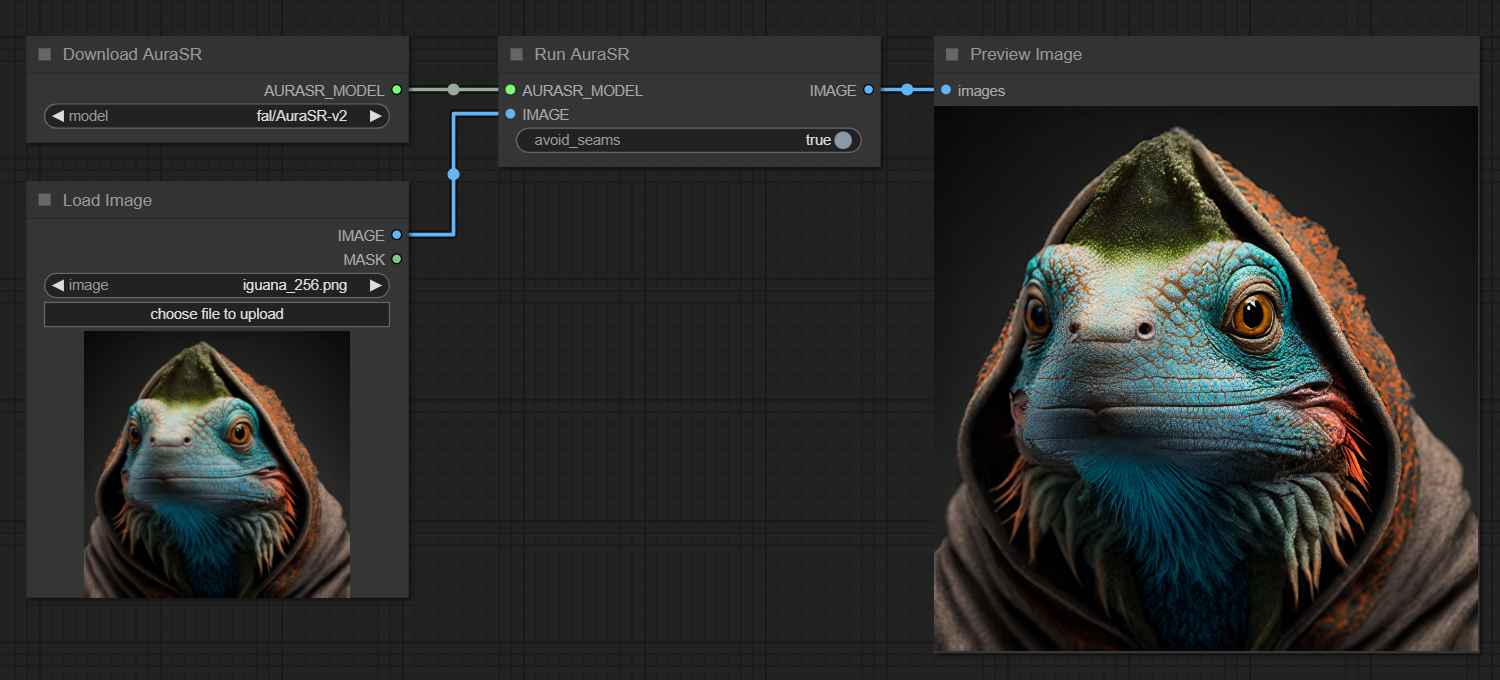
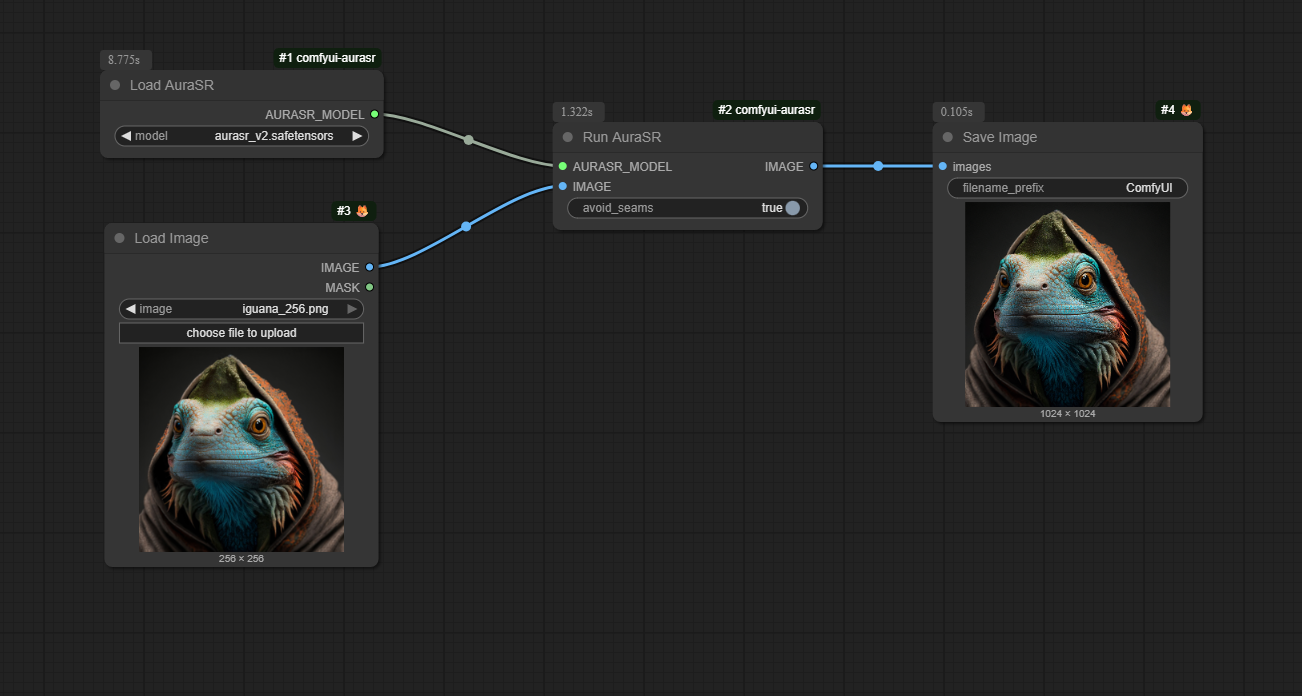
Update node label

diff --git a/__init__.py b/__init__.py
@@ -9,6 +9,6 @@ NODE_CLASS_MAPPINGS = {
 
 # A dictionary that contains the friendly/humanly readable titles for the nodes
 NODE_DISPLAY_NAME_MAPPINGS = {
-    "LoadAuraSR": "DownLoad And Load AuraSR",
+    "LoadAuraSR": "Load AuraSR",
     "RunAuraSR": "Run AuraSR"
 }

diff --git a/README.md b/README.md
@@ -1,16 +1,16 @@
-# ComfyUI AuraSR
+# ComfyUI-AuraSR
 
-Custom ComfyUI nodes to run AuraSR models created by Fal AI. The original models and code are:
+Custom nodes to run AuraSR models created by Fal AI. The original models and code are in the following repositories:
 
 - [fal/AuraSR](https://huggingface.co/fal/AuraSR)
 - [fal/AuraSR-v2](https://huggingface.co/fal/AuraSR-v2)
 
 ## Getting Started
 
-Download the model files manually from this repository [Lexius/AuraSR](https://huggingface.co/Lexius/AuraSR) and place them in the ComfyUI folder `.\ComfyUI\models\upscale_models`:
+Download the model files manually from the [Lexius/AuraSR](https://huggingface.co/Lexius/AuraSR) and place them in the ComfyUI folder `.\ComfyUI\models\upscale_models`:
 
-- [AuraSR](https://huggingface.co/Lexius/AuraSR/blob/main/aurasr.safetensors)
-- [AuraSR-v2](https://huggingface.co/Lexius/AuraSR/blob/main/aurasr_v2.safetensors)
+- [aurasr.safetensor](https://huggingface.co/Lexius/AuraSR/blob/main/aurasr.safetensors)
+- [aurasr_v2.safetensor](https://huggingface.co/Lexius/AuraSR/blob/main/aurasr_v2.safetensors)
 
 Go to the ComfyUI folder `.\ComfyUI\custom_nodes`, clone this repository and install Python dependencies:
 
